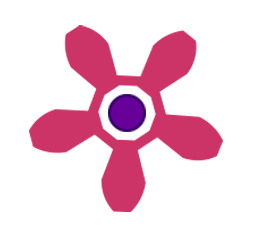
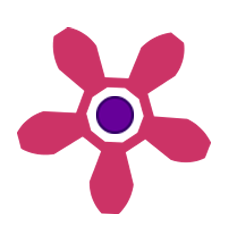
more gear updates

diff --git a/assets/css/main.css b/assets/css/main.css
@@ -93,16 +93,11 @@ span {
   animation-direction: alternate;
   animation-timing-function: ease-in-out; }
   .gear-container #gear {
-    width: 20%;
+    float: left;
     color: #228DFF; }
   .gear-container #gear2 {
-    width: 20%; }
-  .gear-container #gear3 {
-    width: 20%; }
-  .gear-container #gear4 {
-    width: 15%; }
-  .gear-container #gear5 {
-    width: 15%; }
+    float: left;
+    margin-left: -40px; }
 
 .browser {
   text-align: center; }
@@ -148,6 +143,7 @@ span {
   width: 100%;
   height: 250px;
   margin: 0;
+  margin-top: 50%;
   opacity: 0.45; }
 
 .content {
@@ -293,4 +289,4 @@ span {
   to {
     text-shadow: 0 0 5px #fff, 0 0 10px #fff, 0 0 15px #fff, 0 0 20px #FF1177, 0 0 35px #FF1177, 0 0 40px #FF1177, 0 0 50px #FF1177, 0 0 75px #FF1177; } }
 
[2 lines of base64/hex data omitted]

diff --git a/assets/css/main.min.css b/assets/css/main.min.css
@@ -1,2 +1,2 @@
-.content,body,html{background-color:#0f1131}a,abbr,acronym,address,applet,article,aside,audio,b,big,blockquote,body,canvas,caption,center,cite,code,dd,del,details,dfn,div,dl,dt,em,embed,fieldset,figcaption,figure,footer,form,h1,h2,h3,h4,h5,h6,header,hgroup,html,i,iframe,img,ins,kbd,label,legend,li,mark,menu,nav,object,ol,output,p,pre,q,ruby,s,samp,section,small,span,strike,strong,sub,summary,sup,table,tbody,td,tfoot,th,thead,time,tr,tt,u,ul,var,video{margin:0;padding:0;border:0;font:inherit;vertical-align:baseline}article,aside,details,figcaption,figure,footer,header,hgroup,menu,nav,section{display:block}body{line-height:1;font-family:'Open Sans',sans-serif;color:#fff}ol,ul{list-style:none}blockquote,q{quotes:none}blockquote:after,blockquote:before,q:after,q:before{content:'';content:none}table{border-collapse:collapse;border-spacing:0}*{box-sizing:border-box;-webkit-box-sizinshoe-side2g:border-box}.clearfix:after{content:"";display:table;clear:both}body,html{width:100%;height:100%}html{-webkit-font-smoothing:antialiased;-moz-osx-font-smoothing:grayscale;-rendering:optimizelegibility}@keyframes wiggle_x_rotate{0%,100%,50%{transform:rotate(0)}25%,75%{transform:rotate(-1deg)}}span{text-decoration:uppercase;font-weight:700}.gear-container{position:absolute;z-index:4;animation-duration:1s;animation-iteration-count:infinite;animation-direction:alternate;animation-timing-function:ease-in-out}.gear-container #gear{width:20%;color:#228DFF}.gear-container #gear2,.gear-container #gear3{width:20%}.gear-container #gear4,.gear-container #gear5{width:15%}.browser{text-align:center}.parallax>use{animation:move-forever 3s linear infinite;transition-duration:1s}.parallax>use:nth-child(1){animation-delay:-2s}.parallax>use:nth-child(2){animation-delay:-3s;animation-duration:1.5s}.parallax>use:nth-child(3){animation-delay:-4s;animation-duration:2s}.parallax>use:nth-child(4){animation-delay:-4s;animation-duration:2.5s}.parallax_slower>use{animation:move-forever 3.5s linear infinite;transition-duration:1s}.parallax_slower>use:nth-child(1){animation-delay:-2s}.parallax_slower>use:nth-child(2){animation-delay:-3s;animation-duration:5s}.parallax_slower>use:nth-child(3){animation-delay:-4s;animation-duration:3s}.parallax_slower>use:nth-child(4){animation-delay:-4s;animation-duration:4s}@keyframes move-forever{0%{transform:translate(-90px,0)}100%{transform:translate(85px,0)}}.editorial{display:block;width:100%;height:250px;margin:0;opacity:.45}.content{min-height:70vh;margin:-.1em 0 0;padding:1em;opacity:.45}@media (max-width:50em){.editorial{height:17vw}}.spin-button-container{position:absolute;width:275px;top:60%;right:10%;z-index:4}.container,.primary,.primary .main-logo-container .logo{width:100%;overflow:hidden}.spin-button-container .directions{text-align:right;padding-left:85px}.container{height:100%;background:url(../img/redGears_Layout.png) no-repeat #0f1131;background-size:cover}.primary{position:absolute;height:auto;background-color:#0f1131;z-index:15;-webkit-transition:all 2.5s cubic-bezier(.17,.67,1,1.23);-moz-transition:all 2.5s cubic-bezier(.17,.67,1,1.23);transition:all 2.5s cubic-bezier(.17,.67,1,1.23);-webkit-clip-path:polygon(0 0,100% 0,100% 79%,0 100%);clip-path:polygon(0 0,100% 0,100% 79%,0 100%)}.primary .main-logo-container video{position:fixed;top:50%;left:50%;min-width:100%;min-height:100%;width:auto;height:auto;z-index:-100;transform:translate(-50%,-50%)}.primary .main-logo-container .sponsorship{position:absolute;right:36px;bottom:200px;transform:rotate(-7deg);color:#fff;font-size:1.2em}.primary #open-container{position:absolute;bottom:100px;left:36px;width:550px;margin:auto}.primary #open-container .open{float:left;width:30%;height:30%;text-decoration:none;-webkit-transition:all 1.5s;-moz-transition:all 1.5s;transition:all 1.5s}.secondary,.text{position:absolute;width:100%}.primary #open-container .open:hover{background-color:#ef3c3a;box-shadow:inset 0 0 50px #fff,inset 20px 0 80px #f0f,inset -20px 0 80px #0ff,inset 20px 0 300px #f0f,inset -20px 0 300px #0ff,0 0 50px #fff,-10px 0 80px #f0f,10px 0 80px #0ff}.move-up{transform:translateY(-210%)}.secondary{height:100%;background-color:rgba(15,17,49,.7);z-index:5;-webkit-transition:all 2.5s cubic-bezier(.17,.67,1,1.23);-moz-transition:all 2.5s cubic-bezier(.17,.67,1,1.23);transition:all 2.5s cubic-bezier(.17,.67,1,1.23)}.text{height:250px;z-index:10}.text .text-body{width:80%;margin:237px auto;line-height:1.282;font-size:1.3em}.continue{margin:450px auto;position:relative;min-width:210px}@media only screen and (min-width:768px){.text .text-body{width:50%;font-size:1.5em}.continue{max-width:310px}}.open-arrow{position:absolute;top:-51px;left:29px;width:18%}.continue-container{position:absolute;top:-5px;left:87px}@media only screen and (min-width:768px){.continue-container{width:70%}}.continue-container .continue-text{font-size:20px}.continue-button{width:80%}@-webkit-keyframes neon1{from{text-shadow:0 0 10px #fff,0 0 20px #fff,0 0 30px #fff,0 0 40px #F17,0 0 70px #F17,0 0 80px #F17,0 0 100px #F17,0 0 150px #F17}to{text-shadow:0 0 5px #fff,0 0 10px #fff,0 0 15px #fff,0 0 20px #F17,0 0 35px #F17,0 0 40px #F17,0 0 50px #F17,0 0 75px #F17}}
[1 lines of base64/hex data omitted]
+.content,body,html{background-color:#0f1131}a,abbr,acronym,address,applet,article,aside,audio,b,big,blockquote,body,canvas,caption,center,cite,code,dd,del,details,dfn,div,dl,dt,em,embed,fieldset,figcaption,figure,footer,form,h1,h2,h3,h4,h5,h6,header,hgroup,html,i,iframe,img,ins,kbd,label,legend,li,mark,menu,nav,object,ol,output,p,pre,q,ruby,s,samp,section,small,span,strike,strong,sub,summary,sup,table,tbody,td,tfoot,th,thead,time,tr,tt,u,ul,var,video{margin:0;padding:0;border:0;font:inherit;vertical-align:baseline}article,aside,details,figcaption,figure,footer,header,hgroup,menu,nav,section{display:block}body{line-height:1;font-family:'Open Sans',sans-serif;color:#fff}ol,ul{list-style:none}blockquote,q{quotes:none}blockquote:after,blockquote:before,q:after,q:before{content:'';content:none}table{border-collapse:collapse;border-spacing:0}*{box-sizing:border-box;-webkit-box-sizinshoe-side2g:border-box}.clearfix:after{content:"";display:table;clear:both}body,html{width:100%;height:100%}html{-webkit-font-smoothing:antialiased;-moz-osx-font-smoothing:grayscale;-rendering:optimizelegibility}@keyframes wiggle_x_rotate{0%,100%,50%{transform:rotate(0)}25%,75%{transform:rotate(-1deg)}}span{text-decoration:uppercase;font-weight:700}.gear-container{position:absolute;z-index:4;animation-duration:1s;animation-iteration-count:infinite;animation-direction:alternate;animation-timing-function:ease-in-out}.gear-container #gear{float:left;color:#228DFF}.gear-container #gear2{float:left;margin-left:-40px}.browser{text-align:center}.parallax>use{animation:move-forever 3s linear infinite;transition-duration:1s}.parallax>use:nth-child(1){animation-delay:-2s}.parallax>use:nth-child(2){animation-delay:-3s;animation-duration:1.5s}.parallax>use:nth-child(3){animation-delay:-4s;animation-duration:2s}.parallax>use:nth-child(4){animation-delay:-4s;animation-duration:2.5s}.parallax_slower>use{animation:move-forever 3.5s linear infinite;transition-duration:1s}.parallax_slower>use:nth-child(1){animation-delay:-2s}.parallax_slower>use:nth-child(2){animation-delay:-3s;animation-duration:5s}.parallax_slower>use:nth-child(3){animation-delay:-4s;animation-duration:3s}.parallax_slower>use:nth-child(4){animation-delay:-4s;animation-duration:4s}@keyframes move-forever{0%{transform:translate(-90px,0)}100%{transform:translate(85px,0)}}.editorial{display:block;width:100%;height:250px;margin:50% 0 0;opacity:.45}.content{min-height:70vh;margin:-.1em 0 0;padding:1em;opacity:.45}@media (max-width:50em){.editorial{height:17vw}}.spin-button-container{position:absolute;width:275px;top:60%;right:10%;z-index:4}.container,.primary,.primary .main-logo-container .logo{width:100%;overflow:hidden}.spin-button-container .directions{text-align:right;padding-left:85px}.container{height:100%;background:url(../img/redGears_Layout.png) no-repeat #0f1131;background-size:cover}.primary{position:absolute;height:auto;background-color:#0f1131;z-index:15;-webkit-transition:all 2.5s cubic-bezier(.17,.67,1,1.23);-moz-transition:all 2.5s cubic-bezier(.17,.67,1,1.23);transition:all 2.5s cubic-bezier(.17,.67,1,1.23);-webkit-clip-path:polygon(0 0,100% 0,100% 79%,0 100%);clip-path:polygon(0 0,100% 0,100% 79%,0 100%)}.primary .main-logo-container video{position:fixed;top:50%;left:50%;min-width:100%;min-height:100%;width:auto;height:auto;z-index:-100;transform:translate(-50%,-50%)}.primary .main-logo-container .sponsorship{position:absolute;right:36px;bottom:200px;transform:rotate(-7deg);color:#fff;font-size:1.2em}.primary #open-container{position:absolute;bottom:100px;left:36px;width:550px;margin:auto}.primary #open-container .open{float:left;width:30%;height:30%;text-decoration:none;-webkit-transition:all 1.5s;-moz-transition:all 1.5s;transition:all 1.5s}.secondary,.text{position:absolute;width:100%}.primary #open-container .open:hover{background-color:#ef3c3a;box-shadow:inset 0 0 50px #fff,inset 20px 0 80px #f0f,inset -20px 0 80px #0ff,inset 20px 0 300px #f0f,inset -20px 0 300px #0ff,0 0 50px #fff,-10px 0 80px #f0f,10px 0 80px #0ff}.move-up{transform:translateY(-210%)}.secondary{height:100%;background-color:rgba(15,17,49,.7);z-index:5;-webkit-transition:all 2.5s cubic-bezier(.17,.67,1,1.23);-moz-transition:all 2.5s cubic-bezier(.17,.67,1,1.23);transition:all 2.5s cubic-bezier(.17,.67,1,1.23)}.text{height:250px;z-index:10}.text .text-body{width:80%;margin:237px auto;line-height:1.282;font-size:1.3em}.continue{margin:450px auto;position:relative;min-width:210px}@media only screen and (min-width:768px){.text .text-body{width:50%;font-size:1.5em}.continue{max-width:310px}}.open-arrow{position:absolute;top:-51px;left:29px;width:18%}.continue-container{position:absolute;top:-5px;left:87px}@media only screen and (min-width:768px){.continue-container{width:70%}}.continue-container .continue-text{font-size:20px}.continue-button{width:80%}@-webkit-keyframes neon1{from{text-shadow:0 0 10px #fff,0 0 20px #fff,0 0 30px #fff,0 0 40px #F17,0 0 70px #F17,0 0 80px #F17,0 0 100px #F17,0 0 150px #F17}to{text-shadow:0 0 5px #fff,0 0 10px #fff,0 0 15px #fff,0 0 20px #F17,0 0 35px #F17,0 0 40px #F17,0 0 50px #F17,0 0 75px #F17}}
[1 lines of base64/hex data omitted]

diff --git a/assets/scss/components/_buttons.scss b/assets/scss/components/_buttons.scss
@@ -19,13 +19,17 @@ span{
 	// 	}
 	// }
 	#gear{
-		width: 	20%; 
+		float: left;
+		//width: 	20%; 
 	//	height: 20%;
+		
 		color: #228DFF;
 	}
 
 	#gear2{
-		width: 	20%; 
+		float: left;
+    	margin-left: -40px;
+		//width: 	20%; 
 	//	height: 20%;
 		//transition: all 0.3s ease-in-out;
 		// &:hover{
@@ -34,17 +38,17 @@ span{
 	}
 
 	#gear3{
-		width: 	20%; 
+		//width: 	20%; 
 	//	height: 20%;
 	}
 
 	#gear4{
-		width: 	15%; 
+		//width: 	15%; 
 	//	height: 15%;
 	}
 
 	#gear5{
-		width: 	15%; 
+		//width: 	15%; 
 		//height: 15%;
 	}
 }

diff --git a/index.html b/index.html
@@ -51,7 +51,7 @@
 	</div><!-- end of .sectionOneOverlay -->
 
 	<div class="sectionOne container">
-		<h1>Mechanical Music</h1>
+		<!-- <h1>Mechanical Music</h1>
 
 		<span> ARP</span>
 		<div id='myText'>rotation</div>
@@ -62,7 +62,7 @@
 		<span> Percussion</span>
 		<div id='myText4'>rotation</div>
 		<span> Snare</span>
-		<div id='myText5'>rotation</div>
+		<div id='myText5'>rotation</div> -->
 
 		<div class="gear-container">
 		

diff --git a/assets/scss/components/_waves.scss b/assets/scss/components/_waves.scss
@@ -26,6 +26,7 @@
     width: 100%;
     height: 250px;
     margin: 0;
+    margin-top: 50%;
     opacity: 0.45;
 }
 
